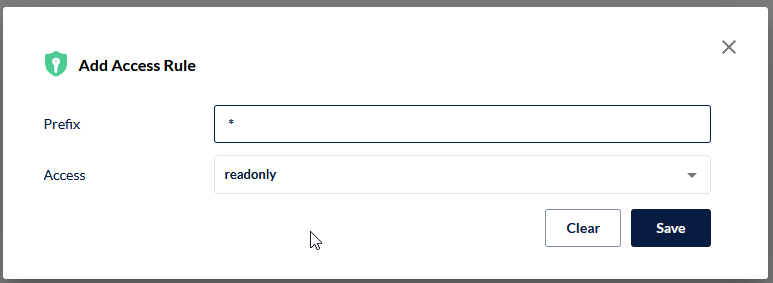
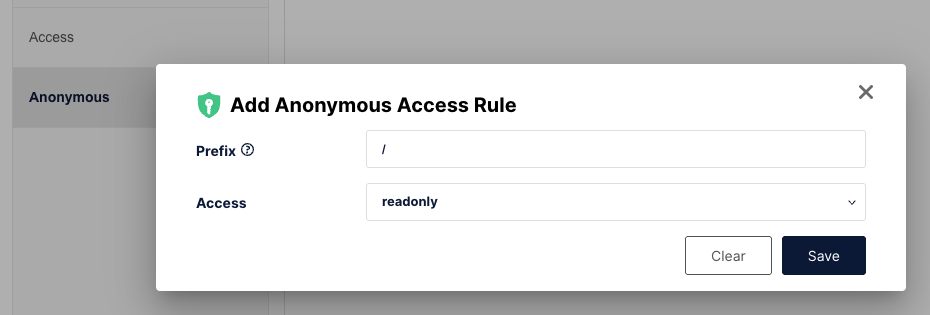
Update minio documentation

diff --git a/docs/getting-started/clients/desktop/update.md b/docs/getting-started/clients/desktop/update.md
@@ -14,12 +14,15 @@ process without messing around in a GitHub repo.
 
 1.  Start the minio docker container using `docker compose up` in `scripts/dev`.
 2.  Add a read-only bucket called `update`, by going to `http://localhost:9001` and login using
-    `minioadmin/minioadmin`, click `Create bucket` fill in the details. Then click `Manage`,
-    `Access Rules` and fill in the following details.
+    `minioadmin/minioadmin`, click `Create bucket` fill in the details.
+
+    ![](./minio-create-bucket.png)
+
+3.  Click on the bucket then `Anonymous`, `Add Access Rule` and fill in the following details.
 
     ![](./minio-access-rule.png)
 
-3.  Modify the `electron-builder.json` with the following `publish` settings.
+4.  Modify the `electron-builder.json` with the following `publish` settings.
 
     ```json
     "publish" : {
@@ -29,7 +32,7 @@ process without messing around in a GitHub repo.
     },
     ```
 
-4.  Create `.aws/credentials` inside the Users home directory (Windows: C:\Users\username, Linux:
+5.  Create `.aws/credentials` inside the Users home directory (Windows: C:\Users\username, Linux:
     ~/) with the following content
 
     ```bash
@@ -46,7 +49,28 @@ process without messing around in a GitHub repo.
 4.  Publish the new version using: `npm run publish:win:dev`
 5.  The app should now prompt for an update.
 
-Note: This can also be done on Linux, just use `npm run publish:lin` for steps 1 and 4.
+Note: This can also be done on Mac and Linux, just use `npm run publish:mac` and
+`npm run publish:lin` for steps 1 and 4.
+
+## Troubleshooting
+
+### Issues when running the publishing command
+
+If the publish command returns errors when uploading the artifacts, ensure the credentials were
+created successfully as mentioned in step 5 of the preparation section. If the problem persists,
+some other application on your system might have reserved port `9000` <Bitwarden>(On MacOS, ZScaler
+tends to reserve ports in this range)</Bitwarden>. You can use the following command on UNIX systems
+to check if this port is in use as well:
+
+```sh
+sudo lsof -nP -iTCP -sTCP:LISTEN | grep 9000
+```
+
+If that's the case you should update the port to a different value, for example `9002`:
+
+- Update the `endpoint` URL in `electron-builder.json` to `http://127.0.0.1:9002`
+- Update the `ports` section in the `scripts/dev/docker-compose.yml` file and replace the first line
+  by ` - "9002:9000"`, then restart the docker container
 
 Related:
 [https://www.electron.build/tutorials/test-update-on-s3-locally](https://www.electron.build/tutorials/test-update-on-s3-locally)
